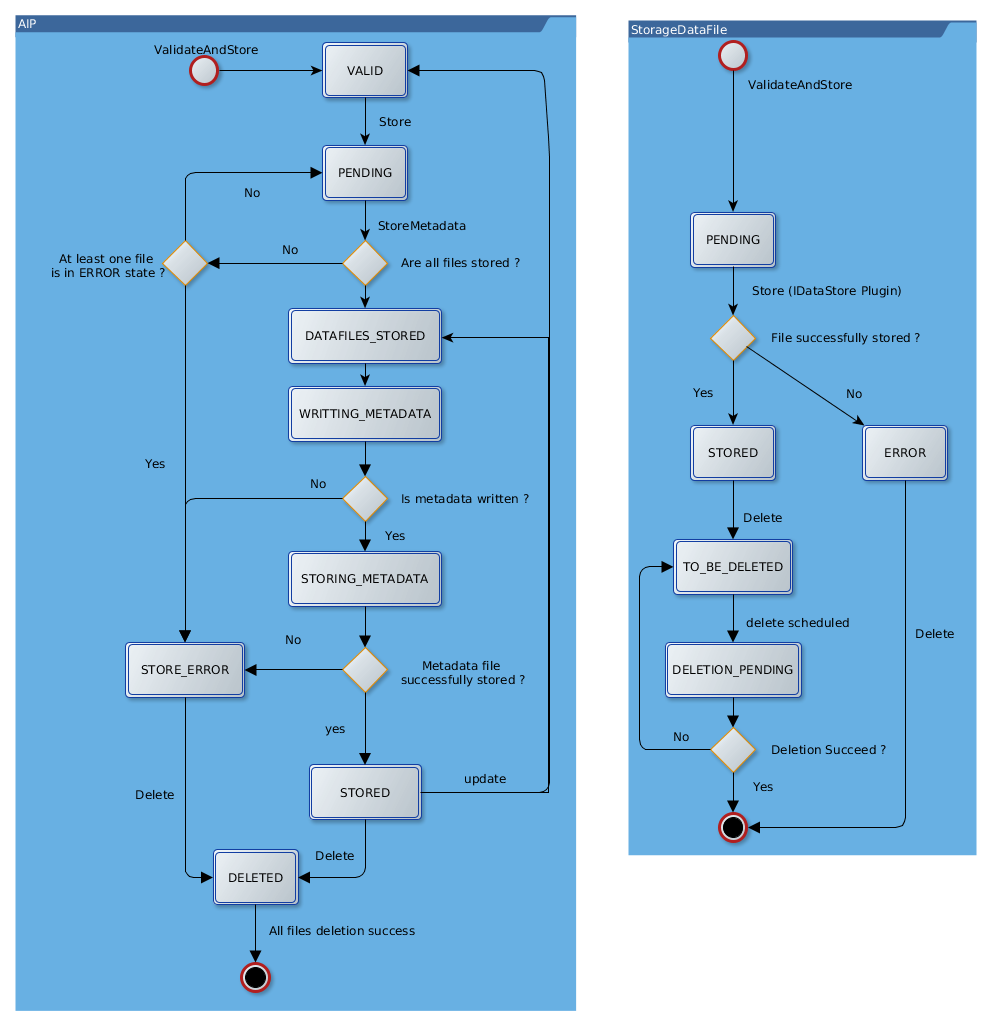
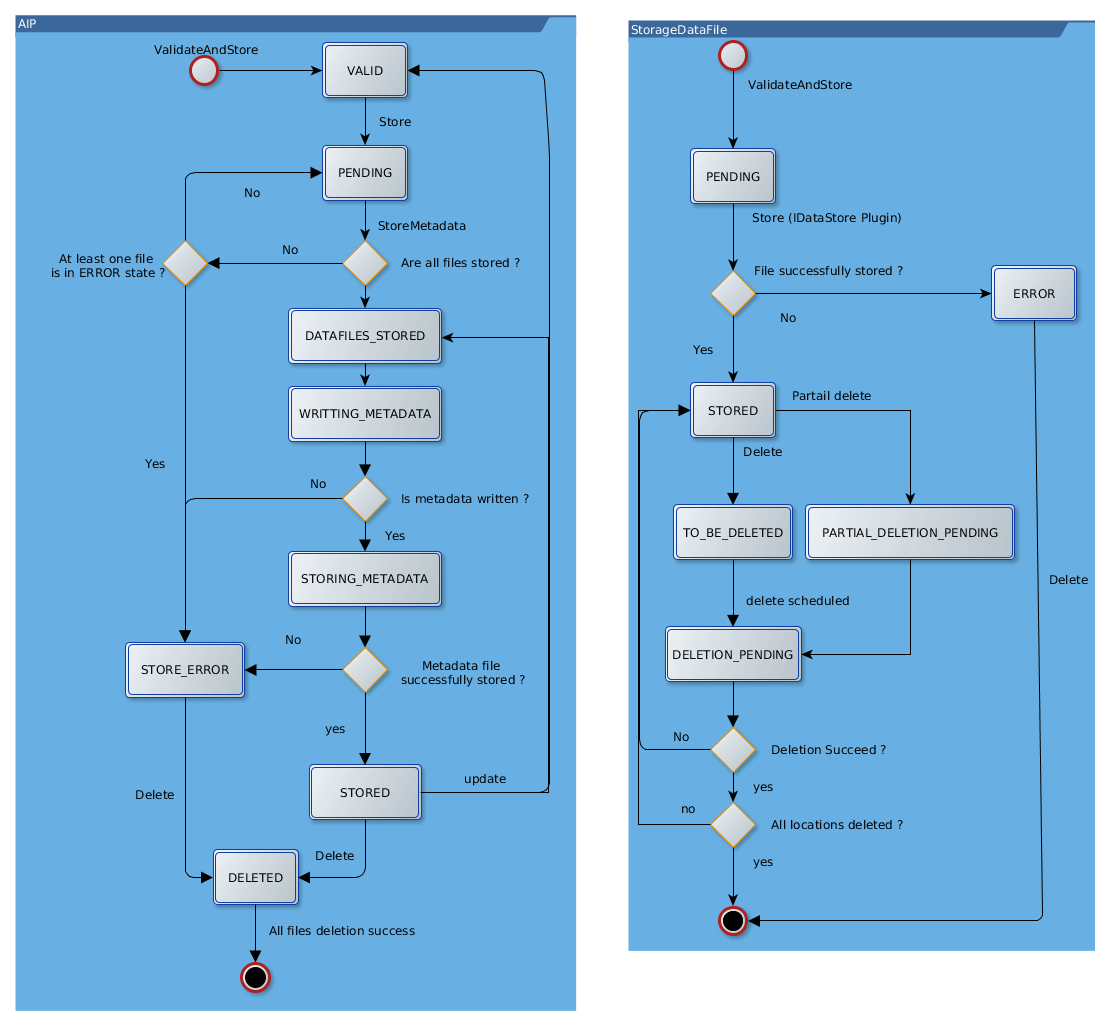
[rs-storage] Fix deletion jobs.

diff --git a/rs-storage/storage/storage-service/src/main/java/fr/cnes/regards/modules/storage/service/AIPService.java b/rs-storage/storage/storage-service/src/main/java/fr/cnes/regards/modules/storage/service/AIPService.java
@@ -1278,36 +1278,8 @@ public class AIPService implements IAIPService {
         Set<StorageDataFile> dataFilesWithoutMetadata = dataFilesWithMetadata.stream()
                 .filter(df -> !DataType.AIP.equals(df.getDataType())).collect(Collectors.toSet());
         for (StorageDataFile dataFile : dataFilesWithoutMetadata) {
-            // If dataFile is in error state and no storage succeeded. So no urls are associated to the dataFile.
-            if (dataFile.getState().equals(DataFileState.ERROR) && dataFile.getUrls().isEmpty()) {
-                // we do not do remove immediately because the aip metadata has to be updated first
-                // and the logic is already implemented into DataStorageEventHandler
-                publisher.publish(new DataStorageEvent(dataFile, StorageAction.DELETION, StorageEventType.SUCCESSFULL,
-                        null, null));
-            } else {
-                if (dataFile.getState().equals(DataFileState.PENDING)) {
-                    notSuppressible.add(dataFile);
-                } else {
-                    // we order deletion of a file if and only if no other aip references the same file
-                    long daoFindOtherDataFileStart = System.currentTimeMillis();
-                    long nbDataFilesWithSameFile = dataFileDao
-                            .countByChecksumAndStorageDirectory(dataFile.getChecksum(), dataFile.getStorageDirectory());
-                    long daoFindOtherDataFileEnd = System.currentTimeMillis();
-                    LOGGER.trace("Counting {} other datafile with checksum {} took {} ms", nbDataFilesWithSameFile,
-                                 dataFile.getChecksum(), daoFindOtherDataFileEnd - daoFindOtherDataFileStart);
-                    if (nbDataFilesWithSameFile == 1) {
-                        // add to datafiles that should be removed
-                        dataFile.setState(DataFileState.TO_BE_DELETED);
-                        dataFileDao.save(dataFile);
-                    } else {
-                        // if other datafiles are referencing a file, we just remove the data file from the
-                        // database.
-                        // we do not do remove immediately because the aip metadata has to be updated first
-                        // and the logic is already implemented into DataStorageEventHandler
-                        publisher.publish(new DataStorageEvent(dataFile, StorageAction.DELETION,
-                                StorageEventType.SUCCESSFULL, null, null));
-                    }
-                }
+            if (!deleteAipFile(dataFile)) {
+                notSuppressible.add(dataFile);
             }
         }
         // schedule removal of data and metadata
@@ -1333,6 +1305,48 @@ public class AIPService implements IAIPService {
         long methodEnd = System.currentTimeMillis();
         LOGGER.trace("Deleting AIP {} took {} ms", toBeDeletedIpId, methodEnd - methodStart);
         return notSuppressible;
+    }
+
+    /**
+     * Do schedule deletion of given {@link StorageDataFile} if file is not in PENDING state.
+     * @param dataFile {@link StorageDataFile} to delete
+     * @return TRUE if file can be deleted.
+     */
+    private boolean deleteAipFile(StorageDataFile dataFile) {
+        boolean deletionReady = false;
+        // we order deletion of a file if and only if no other aip references the same file
+        long daoFindOtherDataFileStart = System.currentTimeMillis();
+        long nbDataFilesWithSameFile = dataFileDao.countByChecksumAndStorageDirectory(dataFile.getChecksum(),
+                                                                                      dataFile.getStorageDirectory());
+        long daoFindOtherDataFileEnd = System.currentTimeMillis();
+        LOGGER.trace("Counting {} other datafile with checksum {} took {} ms", nbDataFilesWithSameFile,
+                     dataFile.getChecksum(), daoFindOtherDataFileEnd - daoFindOtherDataFileStart);
+        if (nbDataFilesWithSameFile == 1) {
+            // The AIP to delete is the only one who own the data file. So we can delete it.
+            // If dataFile is in error state and no storage succeeded. So no URLs are associated to the dataFile.
+            if (dataFile.getState().equals(DataFileState.ERROR) && dataFile.getUrls().isEmpty()) {
+                // we do not do remove immediately because the AIP metadata has to be updated first
+                // and the logic is already implemented into DataStorageEventHandler
+                publisher.publish(new DataStorageEvent(dataFile, StorageAction.DELETION, StorageEventType.SUCCESSFULL,
+                        null, null));
+                deletionReady = true;
+            } else {
+                if (!dataFile.getState().equals(DataFileState.PENDING)) {
+                    // add to data files that should be removed
+                    dataFile.setState(DataFileState.TO_BE_DELETED);
+                    dataFileDao.save(dataFile);
+                    deletionReady = true;
+                }
+            }
+        } else {
+            // if other data files are referencing a file, we just remove the file from the
+            // database. We do not do remove it immediately because the AIP metadata has to be updated first
+            // and the logic is already implemented into DataStorageEventHandler
+            publisher.publish(new DataStorageEvent(dataFile, StorageAction.DELETION, StorageEventType.SUCCESSFULL, null,
+                    null));
+            deletionReady = true;
+        }
+        return deletionReady;
     }
 
     @Override
@@ -1608,34 +1622,43 @@ public class AIPService implements IAIPService {
         Page<AIP> aips = aipDao.findAllByStateService(AIPState.DELETED,
                                                       PageRequest.of(0, aipIterationLimit, Direction.ASC, "id"));
         for (AIP aip : aips) {
-            // lets count the number of datafiles per aip:
-            // if there is none:
-            long nbDataFile = dataFileDao.countByAip(aip);
-            if (nbDataFile == 0) {
-                // Error case recovering. If AIP is in DELETED state and there is no DataFile linked to it, we can
-                // delete aip from database.
+            Set<StorageDataFile> files = dataFileDao.findAllByAip(aip);
+            if (files.isEmpty()) {
+                // If AIP is in DELETED state and there is no DataFile linked to it, we can
+                // delete AIP metadata file from database.
                 LOGGER.warn("Delete AIP {} which is not associated to any datafile.", aip.getId());
                 publisher.publish(new AIPEvent(aip));
                 aipDao.remove(aip);
             } else {
-                // if there is one, it must be the metadata
-                if (nbDataFile == 1) {
-                    Set<StorageDataFile> metadatas = dataFileDao.findByAipAndType(aip, DataType.AIP);
-                    if (!metadatas.isEmpty()) {
-                        for (StorageDataFile meta : metadatas) {
-                            meta.setState(DataFileState.TO_BE_DELETED);
-                            dataFileDao.save(meta);
-                        }
-                    } else {
-                        LOGGER.error("AIP {} is in state {} and its metadata file cannot be found in DB while it has still "
-                                + "some file associated. Database coherence seems shady.", aip.getId().toString(),
-                                     aip.getState());
-                    }
-                }
-                //if there is more than one then deletion has not been executed yet, do nothing
+                files.forEach(this::deleteAIPMetadataFile);
             }
         }
         return aips.getNumberOfElements();
+    }
+
+    /**
+     * Check if the given {@link StorageDataFile} is an AIP typed DataFile and change is state to TO_BE_DELETED if it is.
+     * @param metadataFile {@link StorageDataFile}
+     */
+    private void deleteAIPMetadataFile(StorageDataFile metadataFile) {
+        // Data files deletion are scheduled during the AIP deletion action AIPService#deleteAip
+        if (metadataFile.getDataType().equals(DataType.AIP)) {
+            switch (metadataFile.getState()) {
+                case DELETION_PENDING:
+                case TO_BE_DELETED:
+                    // Nothing to do, file is already scheduled for deletion
+                    break;
+                case ERROR:
+                case PENDING:
+                case PARTIAL_DELETION_PENDING:
+                case STORED:
+                default:
+                    //Here we only schedule metadata files deletion.
+                    metadataFile.setState(DataFileState.TO_BE_DELETED);
+                    dataFileDao.save(metadataFile);
+                    break;
+            }
+        }
     }
 
     @Override
